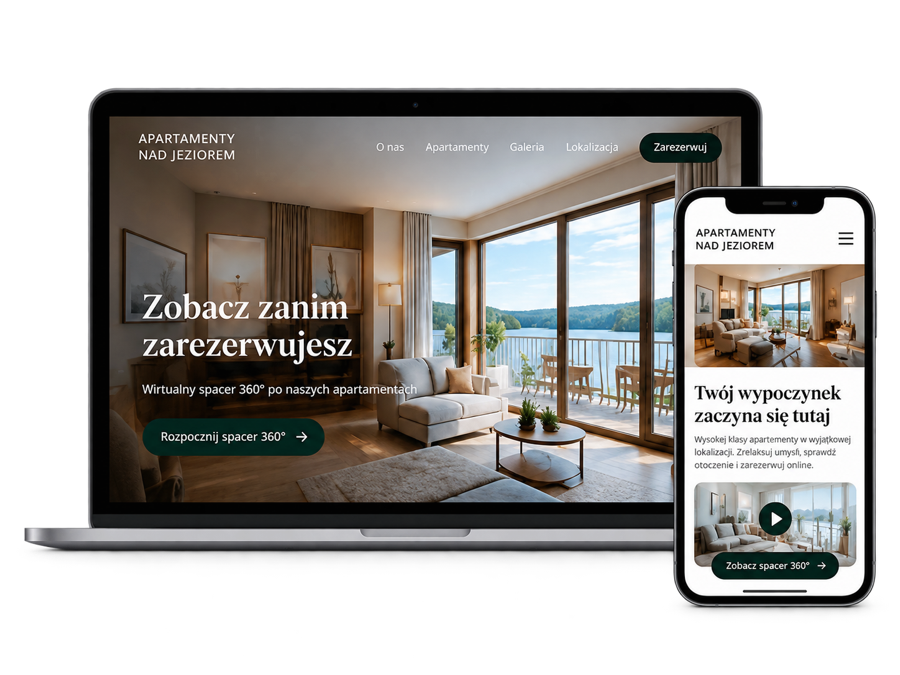
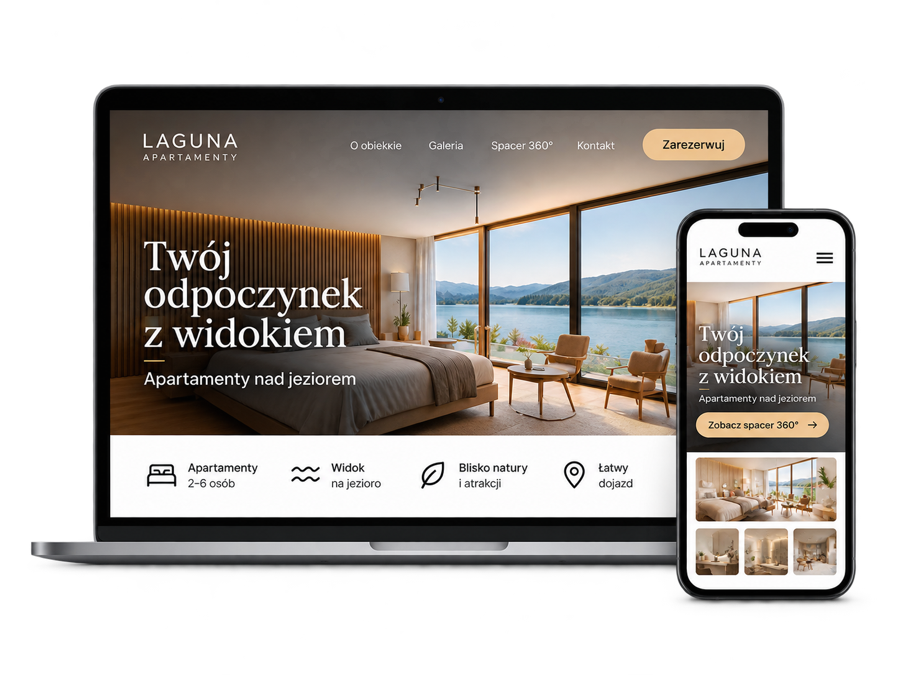
Przebuduj sekcję "Chcesz więcej?" wg nowej makiety, powiększ piktogramy zaufania
1. Piktogramy w "Skontaktuj się z nami" powiększone i rozciągnięte
   pionowo (34x34 -> 40x52, oval zamiast koła)
2. Sekcja przebudowana od podstaw wg dostarczonego designu:
   - nowy eyebrow "CHCESZ WIĘCEJ?", nagłówek "Rozwiń spacer 360°
     o własną stronę", podtytuł "Zamień zainteresowanie w zapytania
     i rezerwacje."
   - karty: wizualizacja (laptop+telefon) na górze pełnej szerokości
     zamiast obok tekstu, nowe grafiki (Laguna Apartamenty, Pure Beauty)
   - 3 cechy w rzędzie z nowymi ikonami (kłódka/wymiana/formularz,
     paleta/warstwy/360°) zamiast pionowej listy z checkmarkami
   - przyciski "Zobacz Landing 360" / "Zobacz stronę firmową"

diff --git a/index.html b/index.html
@@ -266,19 +266,21 @@
   .upsell-section{padding:100px 0; background:var(--bg-alt);}
   .upsell-section .section-head h2{font-size:clamp(30px,3.6vw,42px);}
 
+  .upsell-section .section-head h2{font-size:clamp(28px,3.2vw,38px);}
   .upsell-grid{display:grid; grid-template-columns:1fr 1fr; gap:26px;}
-  .upsell-card{background:#fff; border:1px solid var(--line); border-radius:var(--radius-lg); padding:26px; display:flex; gap:26px; align-items:center;}
-  .upsell-visual{flex:none; width:38%;}
-  .upsell-img{width:100%; display:block;}
-  .upsell-body{flex:1; min-width:0;}
-  .upsell-card-head{margin-bottom:10px;}
+  .upsell-card{background:#fff; border:1px solid var(--line); border-radius:var(--radius-lg); overflow:hidden;}
+  .upsell-visual{background:var(--bg-alt); padding:28px 28px 0; display:flex; justify-content:center;}
+  .upsell-img{width:100%; max-width:420px; display:block;}
+  .upsell-body{padding:26px 28px 28px;}
+  .upsell-card-head{display:flex; align-items:baseline; justify-content:space-between; gap:12px; margin-bottom:10px;}
   .upsell-card-head h3{font-size:22px; font-weight:800; letter-spacing:-.01em; white-space:nowrap; overflow:hidden; text-overflow:ellipsis;}
-  .upsell-price{font-size:13px; color:var(--ink-soft); white-space:nowrap; margin-top:3px; display:block;}
-  .upsell-price strong{font-size:16px; font-weight:800; color:var(--ink);}
-  .upsell-desc{font-size:13px; color:var(--ink-soft); line-height:1.5; margin-bottom:16px;}
-  .upsell-list{display:flex; flex-direction:column; gap:8px; margin-bottom:20px; list-style:none;}
-  .upsell-list li{display:flex; align-items:center; gap:8px; font-size:12.8px; color:var(--ink);}
-  .upsell-list li svg{flex:none; width:15px; height:15px; color:var(--navy);}
+  .upsell-price{flex:none; font-size:11px; font-weight:700; letter-spacing:.04em; color:var(--ink-soft); white-space:nowrap; text-align:right;}
+  .upsell-price strong{display:block; font-size:18px; font-weight:800; color:var(--ink); letter-spacing:-.01em; margin-top:1px;}
+  .upsell-desc{font-size:13px; color:var(--ink-soft); line-height:1.55; margin-bottom:22px;}
+  .upsell-features{display:grid; grid-template-columns:repeat(3,1fr); gap:14px; margin-bottom:24px;}
+  .upsell-feature{display:flex; align-items:flex-start; gap:8px;}
+  .upsell-feature svg{flex:none; width:19px; height:19px; color:var(--ink); margin-top:1px;}
+  .upsell-feature span{font-size:11.8px; color:var(--ink); line-height:1.35;}
   .upsell-btn{display:inline-flex; align-items:center; gap:8px; background:var(--navy); color:#fff; font-size:12.5px; font-weight:700; padding:11px 20px; border-radius:999px; transition:transform .15s ease;}
   .upsell-btn:hover{transform:translateY(-1px);}
   .upsell-btn svg{width:13px; height:13px;}
@@ -362,10 +364,10 @@
   .contact-trust{display:flex; flex-direction:column; gap:18px;}
   .contact-trust-item{display:flex; align-items:flex-start; gap:12px;}
   .contact-trust-icon{
-    flex:none; width:34px; height:34px; border-radius:50%; background:var(--bg-alt);
+    flex:none; width:40px; height:52px; border-radius:50%; background:var(--bg-alt);
     display:flex; align-items:center; justify-content:center; color:var(--navy);
   }
-  .contact-trust-icon svg{width:15px; height:15px;}
+  .contact-trust-icon svg{width:18px; height:18px;}
   .contact-trust-title{font-size:13.3px; font-weight:700; color:var(--ink); margin-bottom:1px;}
   .contact-trust-sub{font-size:12px; color:var(--ink-soft);}
 
@@ -523,8 +525,7 @@
     .stats-box{grid-template-columns:1fr;}
     .stat-item{border-left:none; border-top:1px solid rgba(255,255,255,.15); padding-top:30px;}
     .stat-item:first-child{border-top:none; padding-top:0;}
-    .upsell-card{flex-direction:column; align-items:stretch;}
-    .upsell-visual{width:100%;}
+    .upsell-features{grid-template-columns:1fr;}
   }
 </style>
 </head>
@@ -955,8 +956,9 @@
 <section class="upsell-section">
   <div class="wrap">
     <div class="section-head">
-      <div class="eyebrow" style="text-align:center;">POTRZEBUJESZ WIĘCEJ?</div>
-      <h2>Pójdź krok dalej niż spacer 360° &mdash; zbuduj landing lub stronę firmową, która wykorzysta jego pełny potencjał.</h2>
+      <div class="eyebrow" style="text-align:center;">CHCESZ WIĘCEJ?</div>
+      <h2>Rozwiń spacer 360° o własną stronę</h2>
+      <p>Zamień zainteresowanie w zapytania i rezerwacje.</p>
     </div>
 
     <div class="upsell-grid">
@@ -967,15 +969,24 @@
         <div class="upsell-body">
           <div class="upsell-card-head">
             <h3>Landing 360</h3>
-            <div class="upsell-price">od <strong>1 990 zł</strong></div>
+            <div class="upsell-price">OD <strong>1 990 zł</strong></div>
           </div>
           <p class="upsell-desc">Dedykowana strona typu landing page, która prezentuje Twój obiekt i zachęca do rezerwacji lub kontaktu.</p>
-          <ul class="upsell-list">
-            <li><svg viewBox="0 0 24 24" fill="none" stroke="currentColor" stroke-width="2.4" stroke-linecap="round" stroke-linejoin="round"><path d="M20 6 9 17l-5-5"/></svg>Nowoczesny design</li>
-            <li><svg viewBox="0 0 24 24" fill="none" stroke="currentColor" stroke-width="2.4" stroke-linecap="round" stroke-linejoin="round"><path d="M20 6 9 17l-5-5"/></svg>Integracja ze spacerem 360°</li>
-            <li><svg viewBox="0 0 24 24" fill="none" stroke="currentColor" stroke-width="2.4" stroke-linecap="round" stroke-linejoin="round"><path d="M20 6 9 17l-5-5"/></svg>Formularz zapytań / rezerwacji</li>
-          </ul>
-          <a href="#kontakt" class="upsell-btn" data-interest="Landing 360">Zapytaj o landing
+          <div class="upsell-features">
+            <div class="upsell-feature">
+              <svg viewBox="0 0 24 24" fill="none" stroke="currentColor" stroke-width="1.8" stroke-linecap="round" stroke-linejoin="round"><rect x="3" y="11" width="18" height="11" rx="2"/><path d="M7 11V7a5 5 0 0 1 10 0v4"/></svg>
+              <span>Nowoczesny design</span>
+            </div>
+            <div class="upsell-feature">
+              <svg viewBox="0 0 24 24" fill="none" stroke="currentColor" stroke-width="1.8" stroke-linecap="round" stroke-linejoin="round"><path d="M17 2l4 4-4 4"/><path d="M3 12V10a4 4 0 0 1 4-4h14"/><path d="M7 22l-4-4 4-4"/><path d="M21 12v2a4 4 0 0 1-4 4H3"/></svg>
+              <span>Integracja ze spacerem 360°</span>
+            </div>
+            <div class="upsell-feature">
+              <svg viewBox="0 0 24 24" fill="none" stroke="currentColor" stroke-width="1.8" stroke-linecap="round" stroke-linejoin="round"><rect x="3" y="3" width="18" height="18" rx="2"/><path d="M8 12l3 3 5-5"/></svg>
+              <span>Formularz zapytań / rezerwacji</span>
+            </div>
+          </div>
+          <a href="#kontakt" class="upsell-btn" data-interest="Landing 360">Zobacz Landing 360
             <svg viewBox="0 0 24 24" fill="none" stroke="currentColor" stroke-width="2.4" stroke-linecap="round"><path d="M5 12h14M13 6l6 6-6 6"/></svg>
           </a>
         </div>
@@ -988,15 +999,24 @@
         <div class="upsell-body">
           <div class="upsell-card-head">
             <h3>Strona firmowa 360</h3>
-            <div class="upsell-price">od <strong>3 490 zł</strong></div>
+            <div class="upsell-price">OD <strong>3 490 zł</strong></div>
           </div>
           <p class="upsell-desc">Pełna strona internetowa dla Twojej firmy z wirtualnym spacerem, galerią, ofertą i formularzem kontaktowym.</p>
-          <ul class="upsell-list">
-            <li><svg viewBox="0 0 24 24" fill="none" stroke="currentColor" stroke-width="2.4" stroke-linecap="round" stroke-linejoin="round"><path d="M20 6 9 17l-5-5"/></svg>Indywidualny projekt</li>
-            <li><svg viewBox="0 0 24 24" fill="none" stroke="currentColor" stroke-width="2.4" stroke-linecap="round" stroke-linejoin="round"><path d="M20 6 9 17l-5-5"/></svg>Wiele podstron (np. oferta, galeria)</li>
-            <li><svg viewBox="0 0 24 24" fill="none" stroke="currentColor" stroke-width="2.4" stroke-linecap="round" stroke-linejoin="round"><path d="M20 6 9 17l-5-5"/></svg>Integracja ze spacerem 360°</li>
-          </ul>
-          <a href="#kontakt" class="upsell-btn" data-interest="Strona firmowa">Zapytaj o stronę
+          <div class="upsell-features">
+            <div class="upsell-feature">
+              <svg viewBox="0 0 24 24" fill="none" stroke="currentColor" stroke-width="1.8" stroke-linecap="round" stroke-linejoin="round"><path d="M12 22a10 10 0 1 1 10-10 4 4 0 0 1-4 4h-2.5a2 2 0 0 0-1.4 3.4A2 2 0 0 1 12 22z"/><circle cx="7" cy="10" r="1.2"/><circle cx="12" cy="7" r="1.2"/><circle cx="17" cy="10" r="1.2"/></svg>
+              <span>Indywidualny projekt</span>
+            </div>
+            <div class="upsell-feature">
+              <svg viewBox="0 0 24 24" fill="none" stroke="currentColor" stroke-width="1.8" stroke-linecap="round" stroke-linejoin="round"><polygon points="12 2 2 7 12 12 22 7 12 2"/><polyline points="2 17 12 22 22 17"/><polyline points="2 12 12 17 22 12"/></svg>
+              <span>Wiele podstron (np. oferta, galeria)</span>
+            </div>
+            <div class="upsell-feature">
+              <svg viewBox="0 0 24 24" fill="none" stroke="currentColor" stroke-width="1.8" stroke-linecap="round" stroke-linejoin="round"><path d="M21 12a9 9 0 1 1-3-6.7"/><path d="M21 3v5h-5"/></svg>
+              <span>Integracja ze spacerem 360°</span>
+            </div>
+          </div>
+          <a href="#kontakt" class="upsell-btn" data-interest="Strona firmowa">Zobacz stronę firmową
             <svg viewBox="0 0 24 24" fill="none" stroke="currentColor" stroke-width="2.4" stroke-linecap="round"><path d="M5 12h14M13 6l6 6-6 6"/></svg>
           </a>
         </div>
